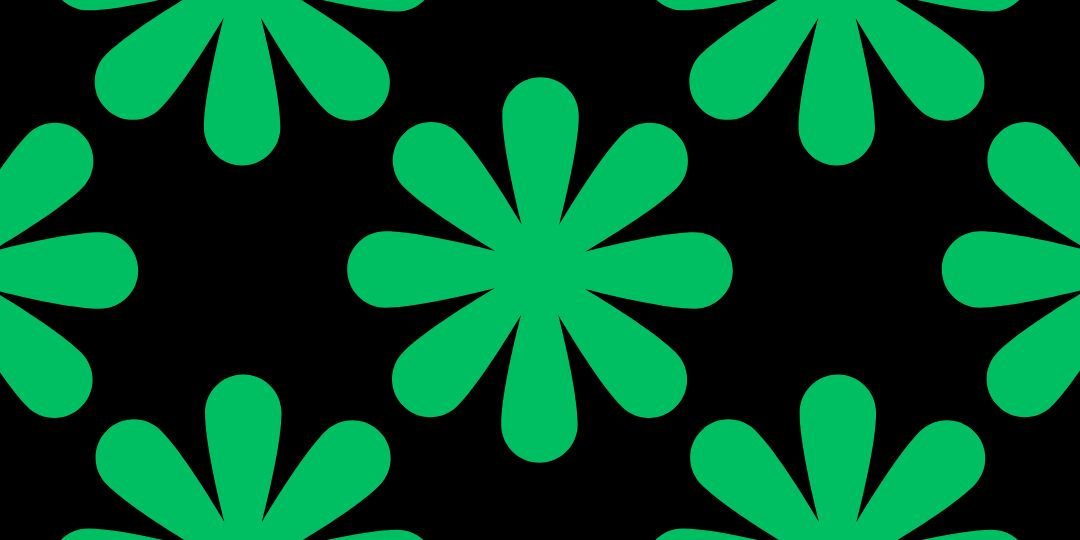
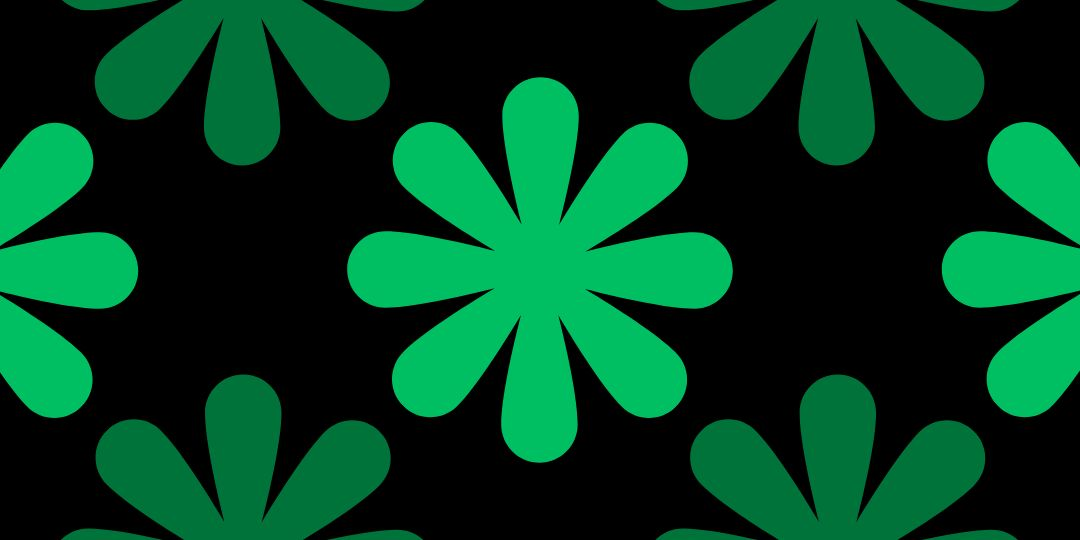
Fixed transparency issues

diff --git a/navbar.js b/navbar.js
@@ -1,6 +1,6 @@
 (function () {
   const NAV_ID = "mas0ng-public-navbar";
-  const SHARED_NAV_URL = "https://sharedassets.mas0ng.com/navbar.js?v=20260813-command-silo-orbit1";
+  const SHARED_NAV_URL = "https://sharedassets.mas0ng.com/navbar.js?v=20260813-apps-modal-thumbnails1";
   const APP_ENCRYPTION_URL = "https://sharedassets.mas0ng.com/app-encryption.js";
   const TAILWIND_URL = "https://cdn.tailwindcss.com";
   const LUCIDE_URL = "https://unpkg.com/lucide@latest";

diff --git a/public_assets/site/js/config/site-data.js b/public_assets/site/js/config/site-data.js
@@ -1,6 +1,6 @@
 window.MAS0NG_SITE = {
   loginUrl: 'https://auth.mas0ng.com/login?return_to=%2Fsecure%2Fapps%2F',
-  sharedNavUrl: 'https://sharedassets.mas0ng.com/navbar.js?v=20260813-command-silo-orbit1',
+  sharedNavUrl: 'https://sharedassets.mas0ng.com/navbar.js?v=20260813-apps-modal-thumbnails1',
   siteName: 'mas0ng.com',
   siteOrigin: '',
   nav: [
